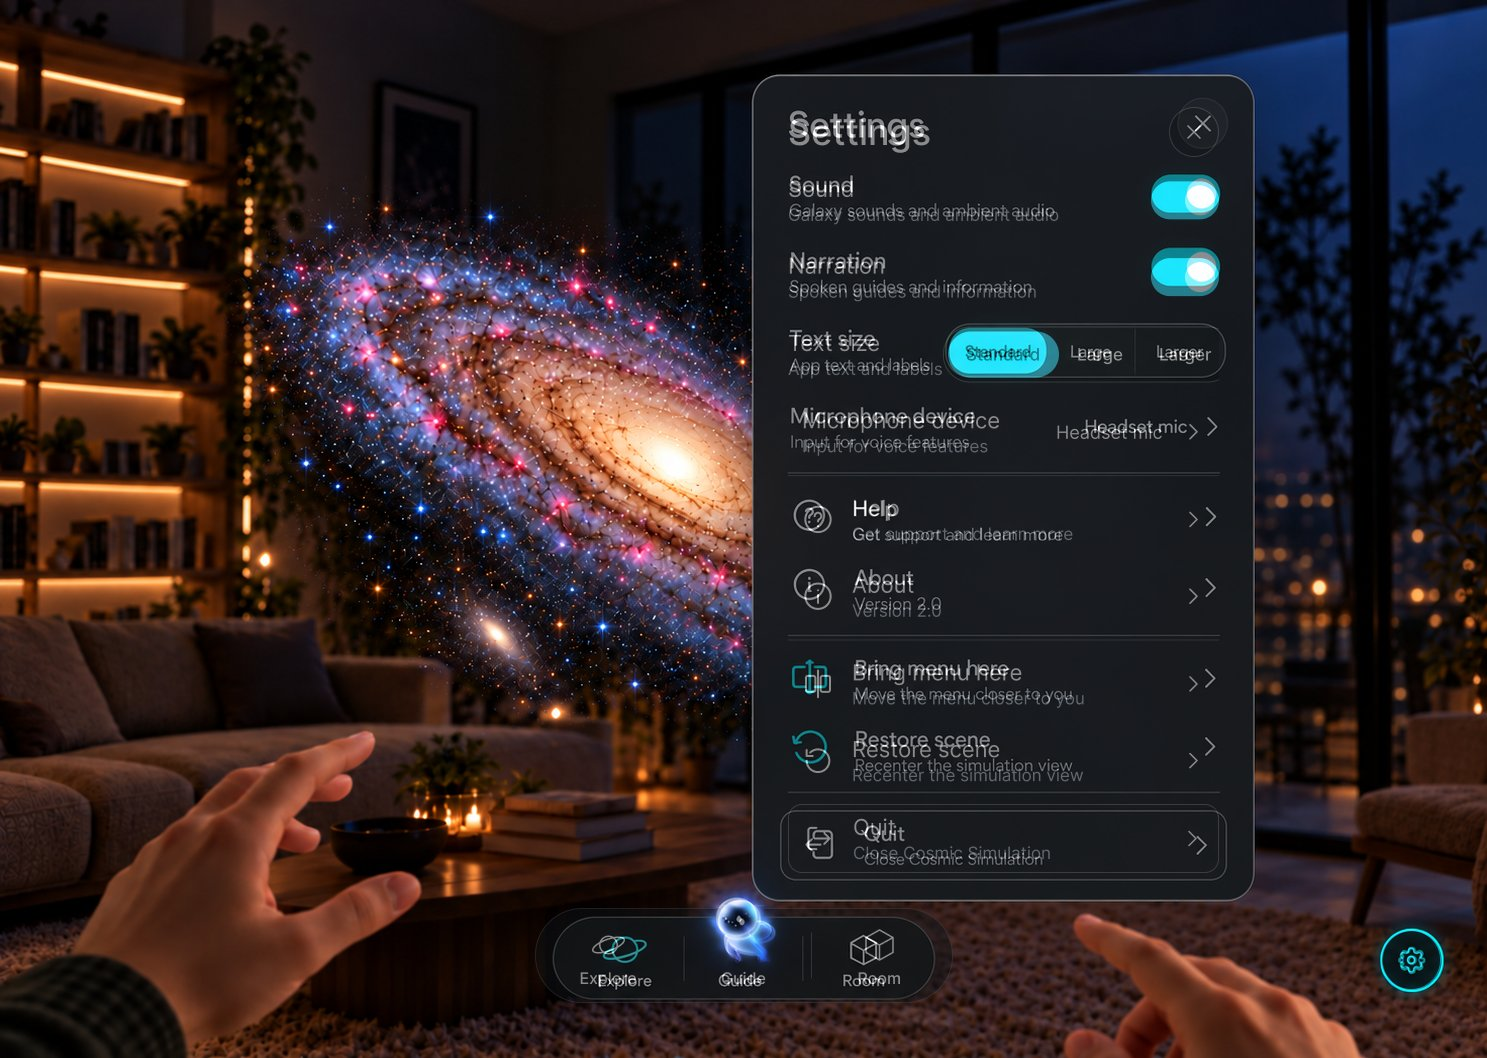
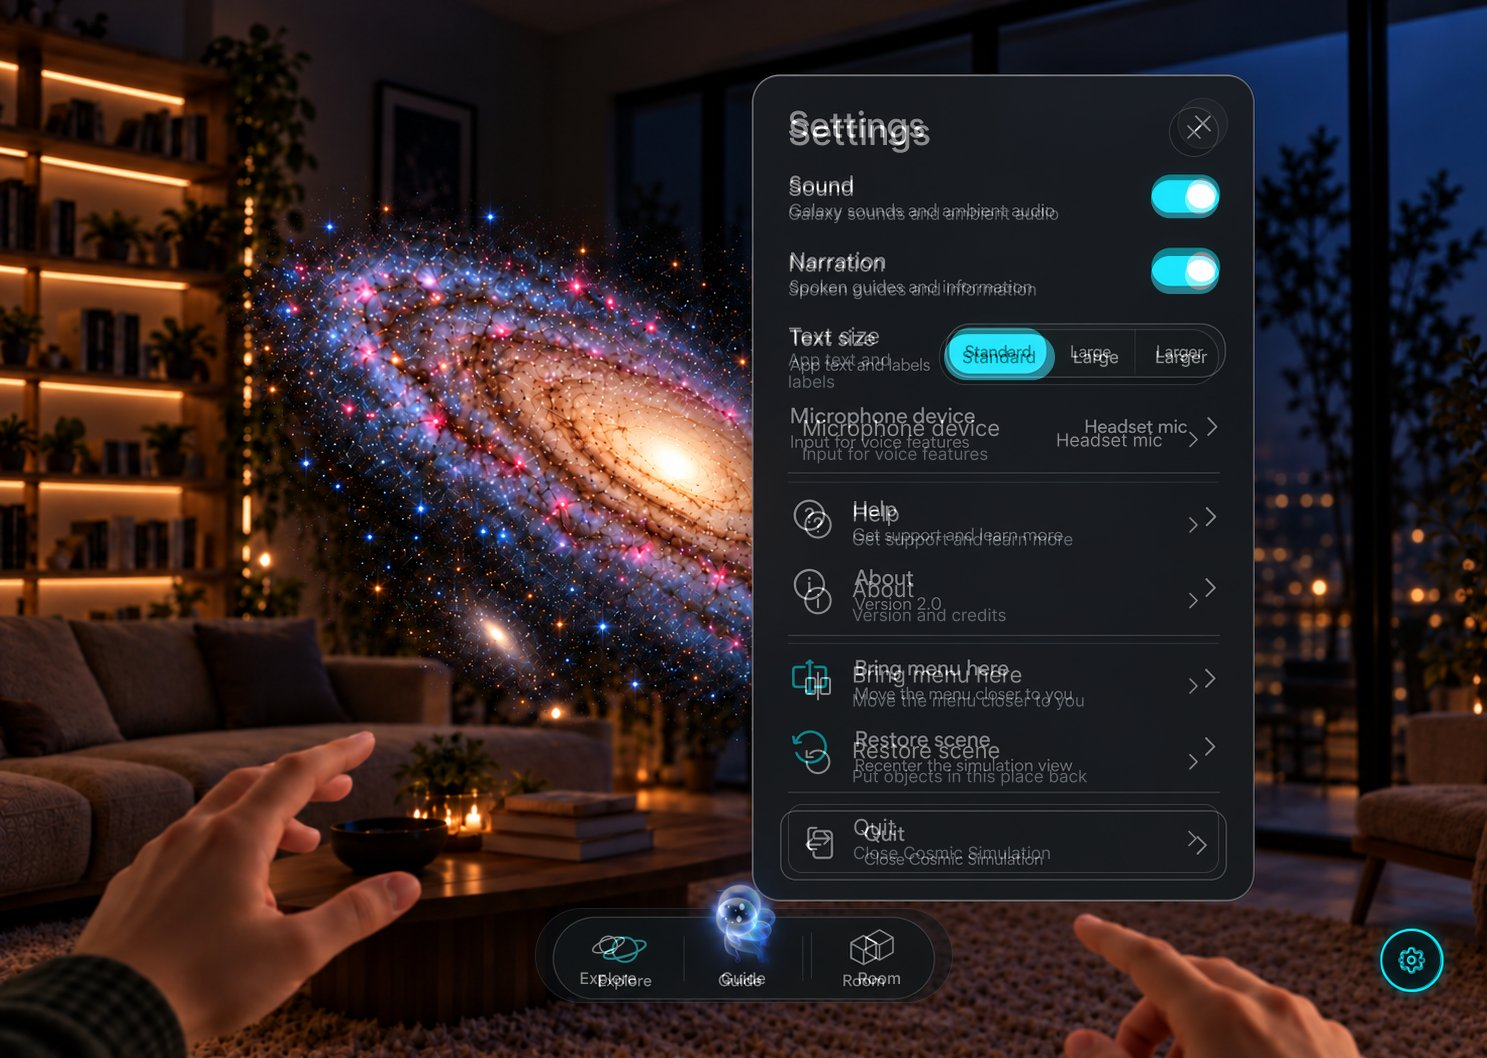
V2: narration interactions on every card, Quit end frame, refreshed Settings evidence
Claude-Session: https://claude.ai/code/session_01FZya58ektwtapqCUZrxF6x

diff --git a/docs/design/v2/FIGMA_PROGRESS.md b/docs/design/v2/FIGMA_PROGRESS.md
@@ -176,7 +176,8 @@ The per-screen comparison images under `evidence/` for S08 and S23 predate the w
 - **Selection states** rebuilt from the approved image (`evidence/selection-reference-vs-figma.jpg`). Dock: the active Explore pill has a cyan outline that is bright on the left and fades toward the right, a faint cyan wash, a larger cyan icon and a semibold cyan label; active Guide and Room use a full outline. Rail: 3 px cyan outline with outer and inner glow, dark teal fill, glowing context image, semibold cyan label, larger dot on the left edge. Selected tile: inner glow and semibold cyan label. New text style `V2/Caption Strong`.
 - **Solar view control.** The two stacked controls (View: Orbits/Compare and Size: Equal/Relative) are replaced on S07, S08 and S36 by one `Controls/Chip` (`91:407`) that reads "View Equal Size" and opens `Controls/Menu` (`91:643`, items from `Controls/MenuItem` `91:564`): Orbits, Equal Size, Relative Size, then Other star systems. Size only ever applied in Compare, so the real choice is three views, not two-by-two. Options board on the Explore page and in `evidence/solar-view-control-options.jpg`: 0 before, A chip (recommended, applied), B one three-way switch. Prototype frames `S07b`/`S08b` show the open menu. This departs from reference 02 at the owner's request.
 - **tokens.json** now carries the accent (`#37E1FD`), type sizes and button radius measured from the approved frame; the previous values are kept in its `note`.
-- The S01 and S08 comparison images under `evidence/` are current. The S23 one still predates the Settings wording change.
+- The S01, S08 and S23 comparison images under `evidence/` are current.
+- Listen, Pause and Resume now work on every information card through variant-change interactions on `Card/Information`. Quit leads to an end frame. Still unlinked: Compare on galaxy and other non-planet cards, Mic on, Transcript.
 - Not done: new Unity captures for Sagittarius A* and the nebula interior. That needs a play-mode capture session in the editor and is better as its own [TERM] ticket.
 
 ## Open items
